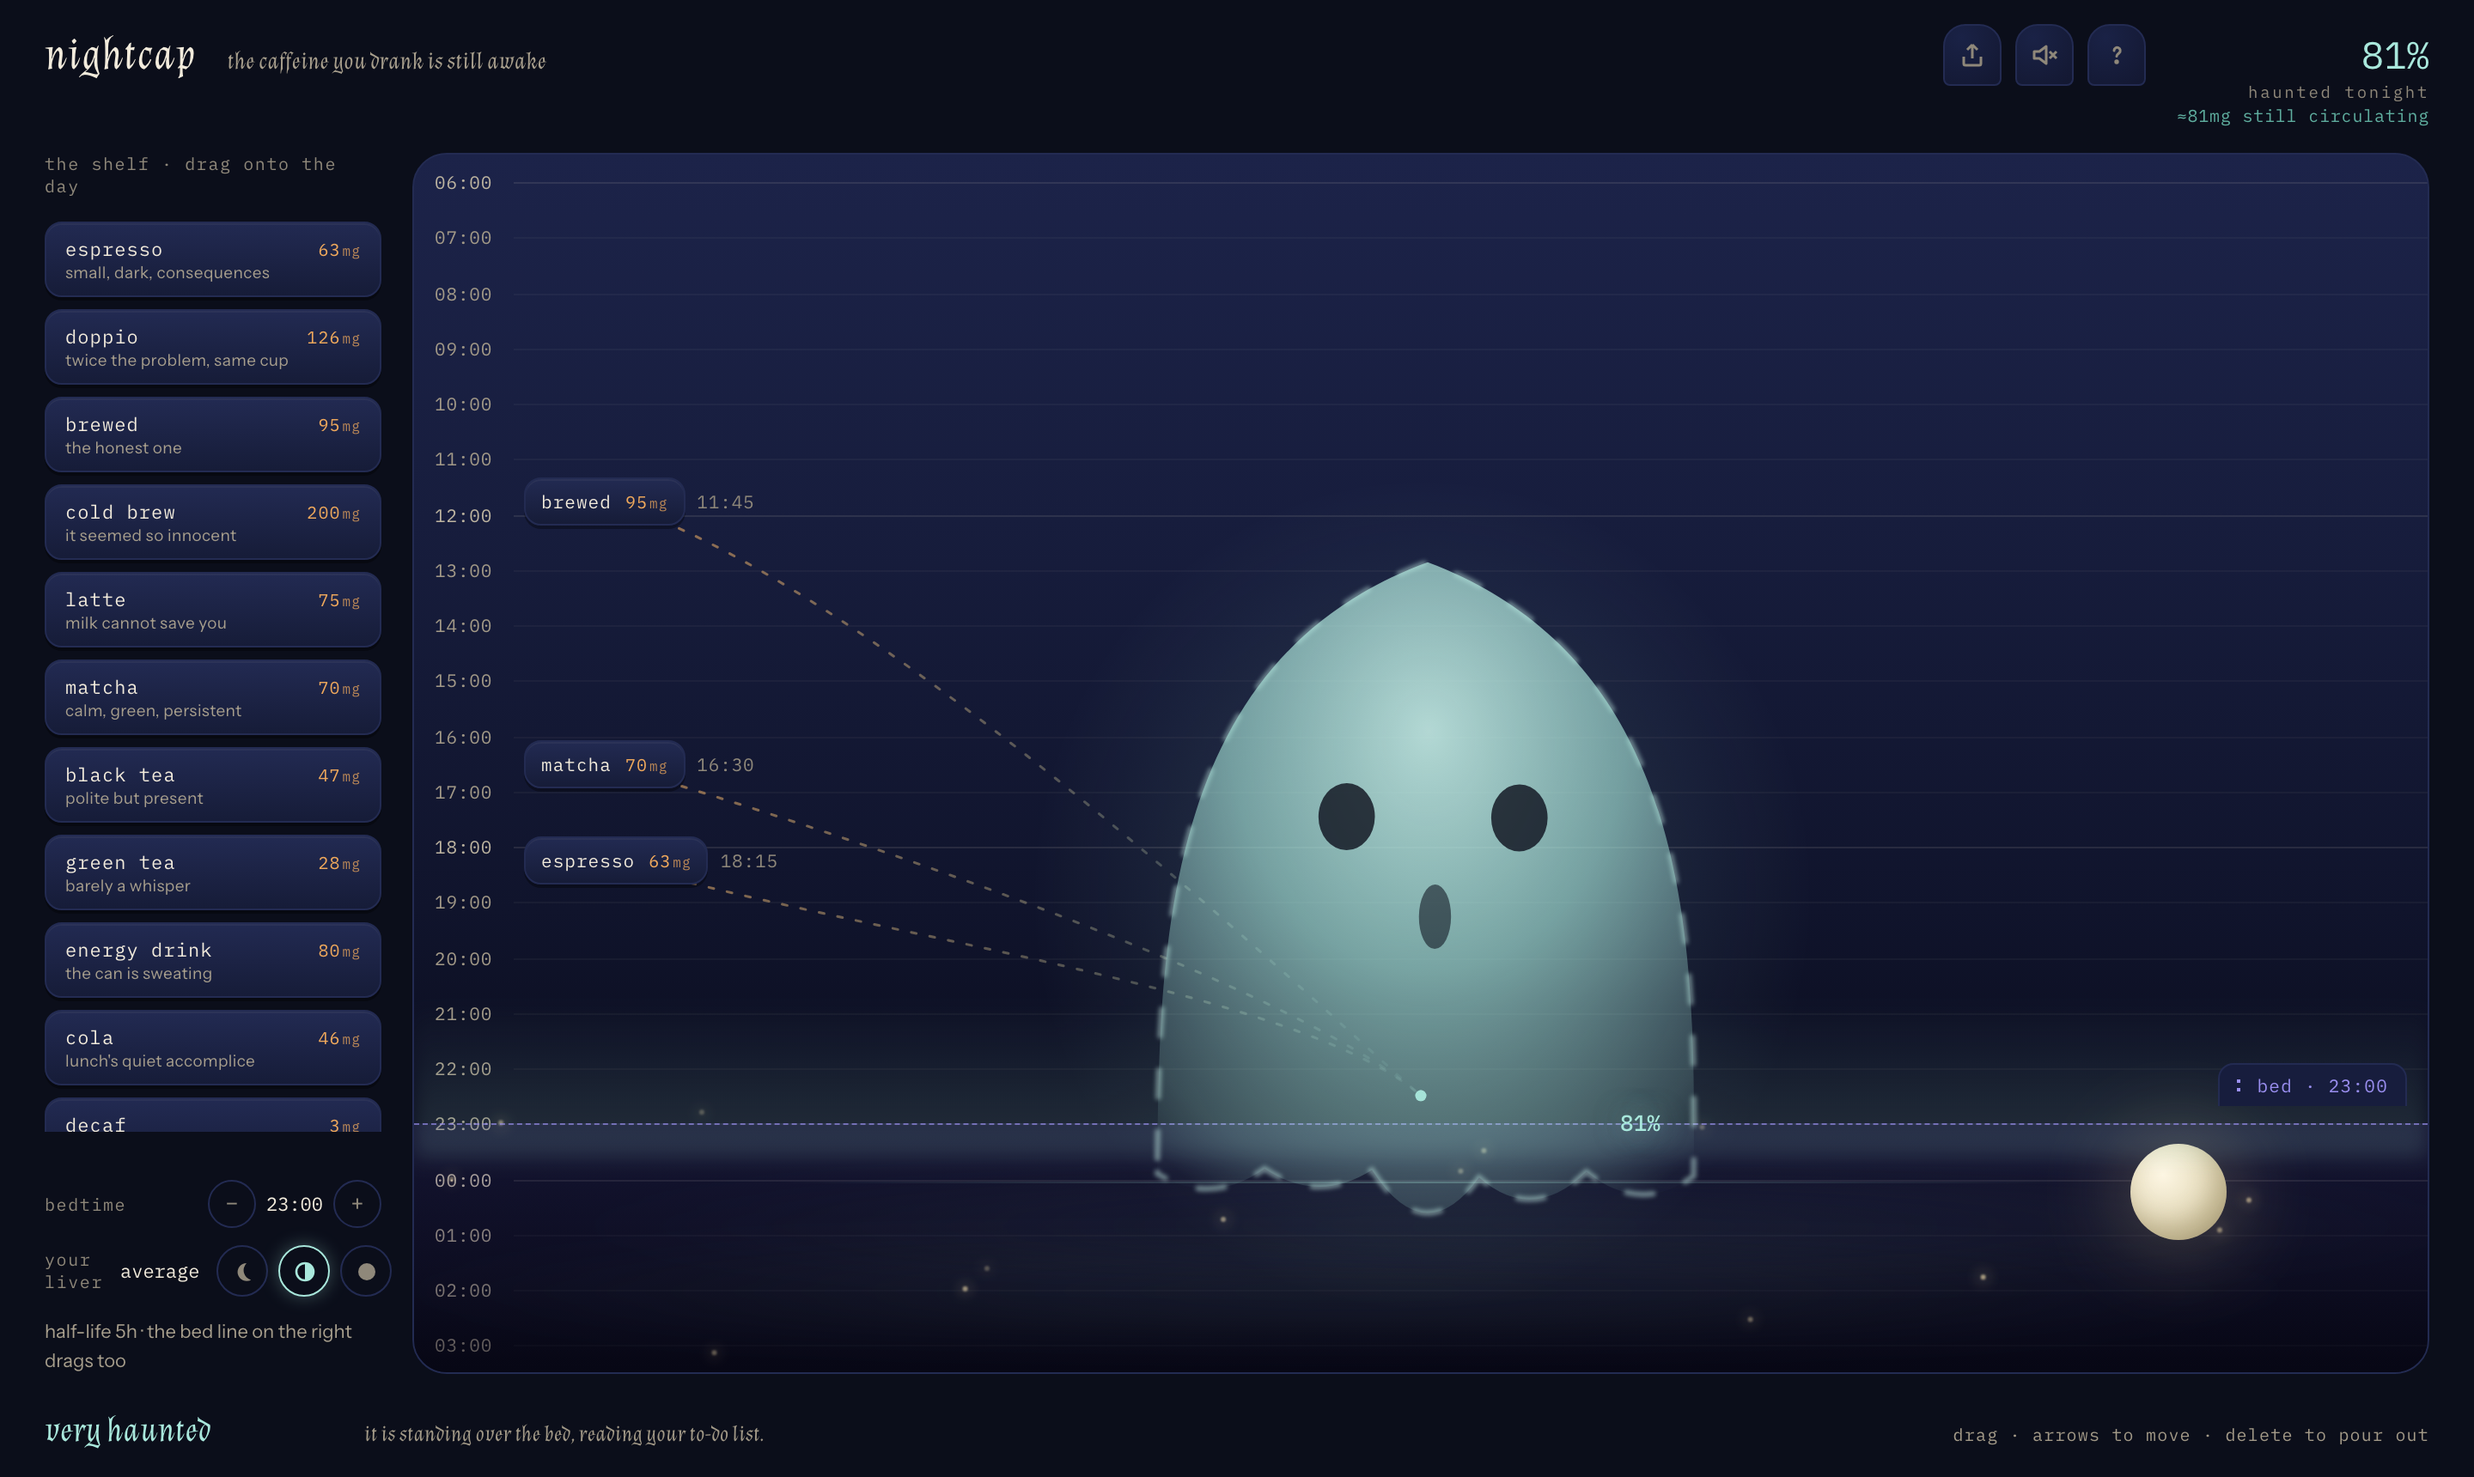
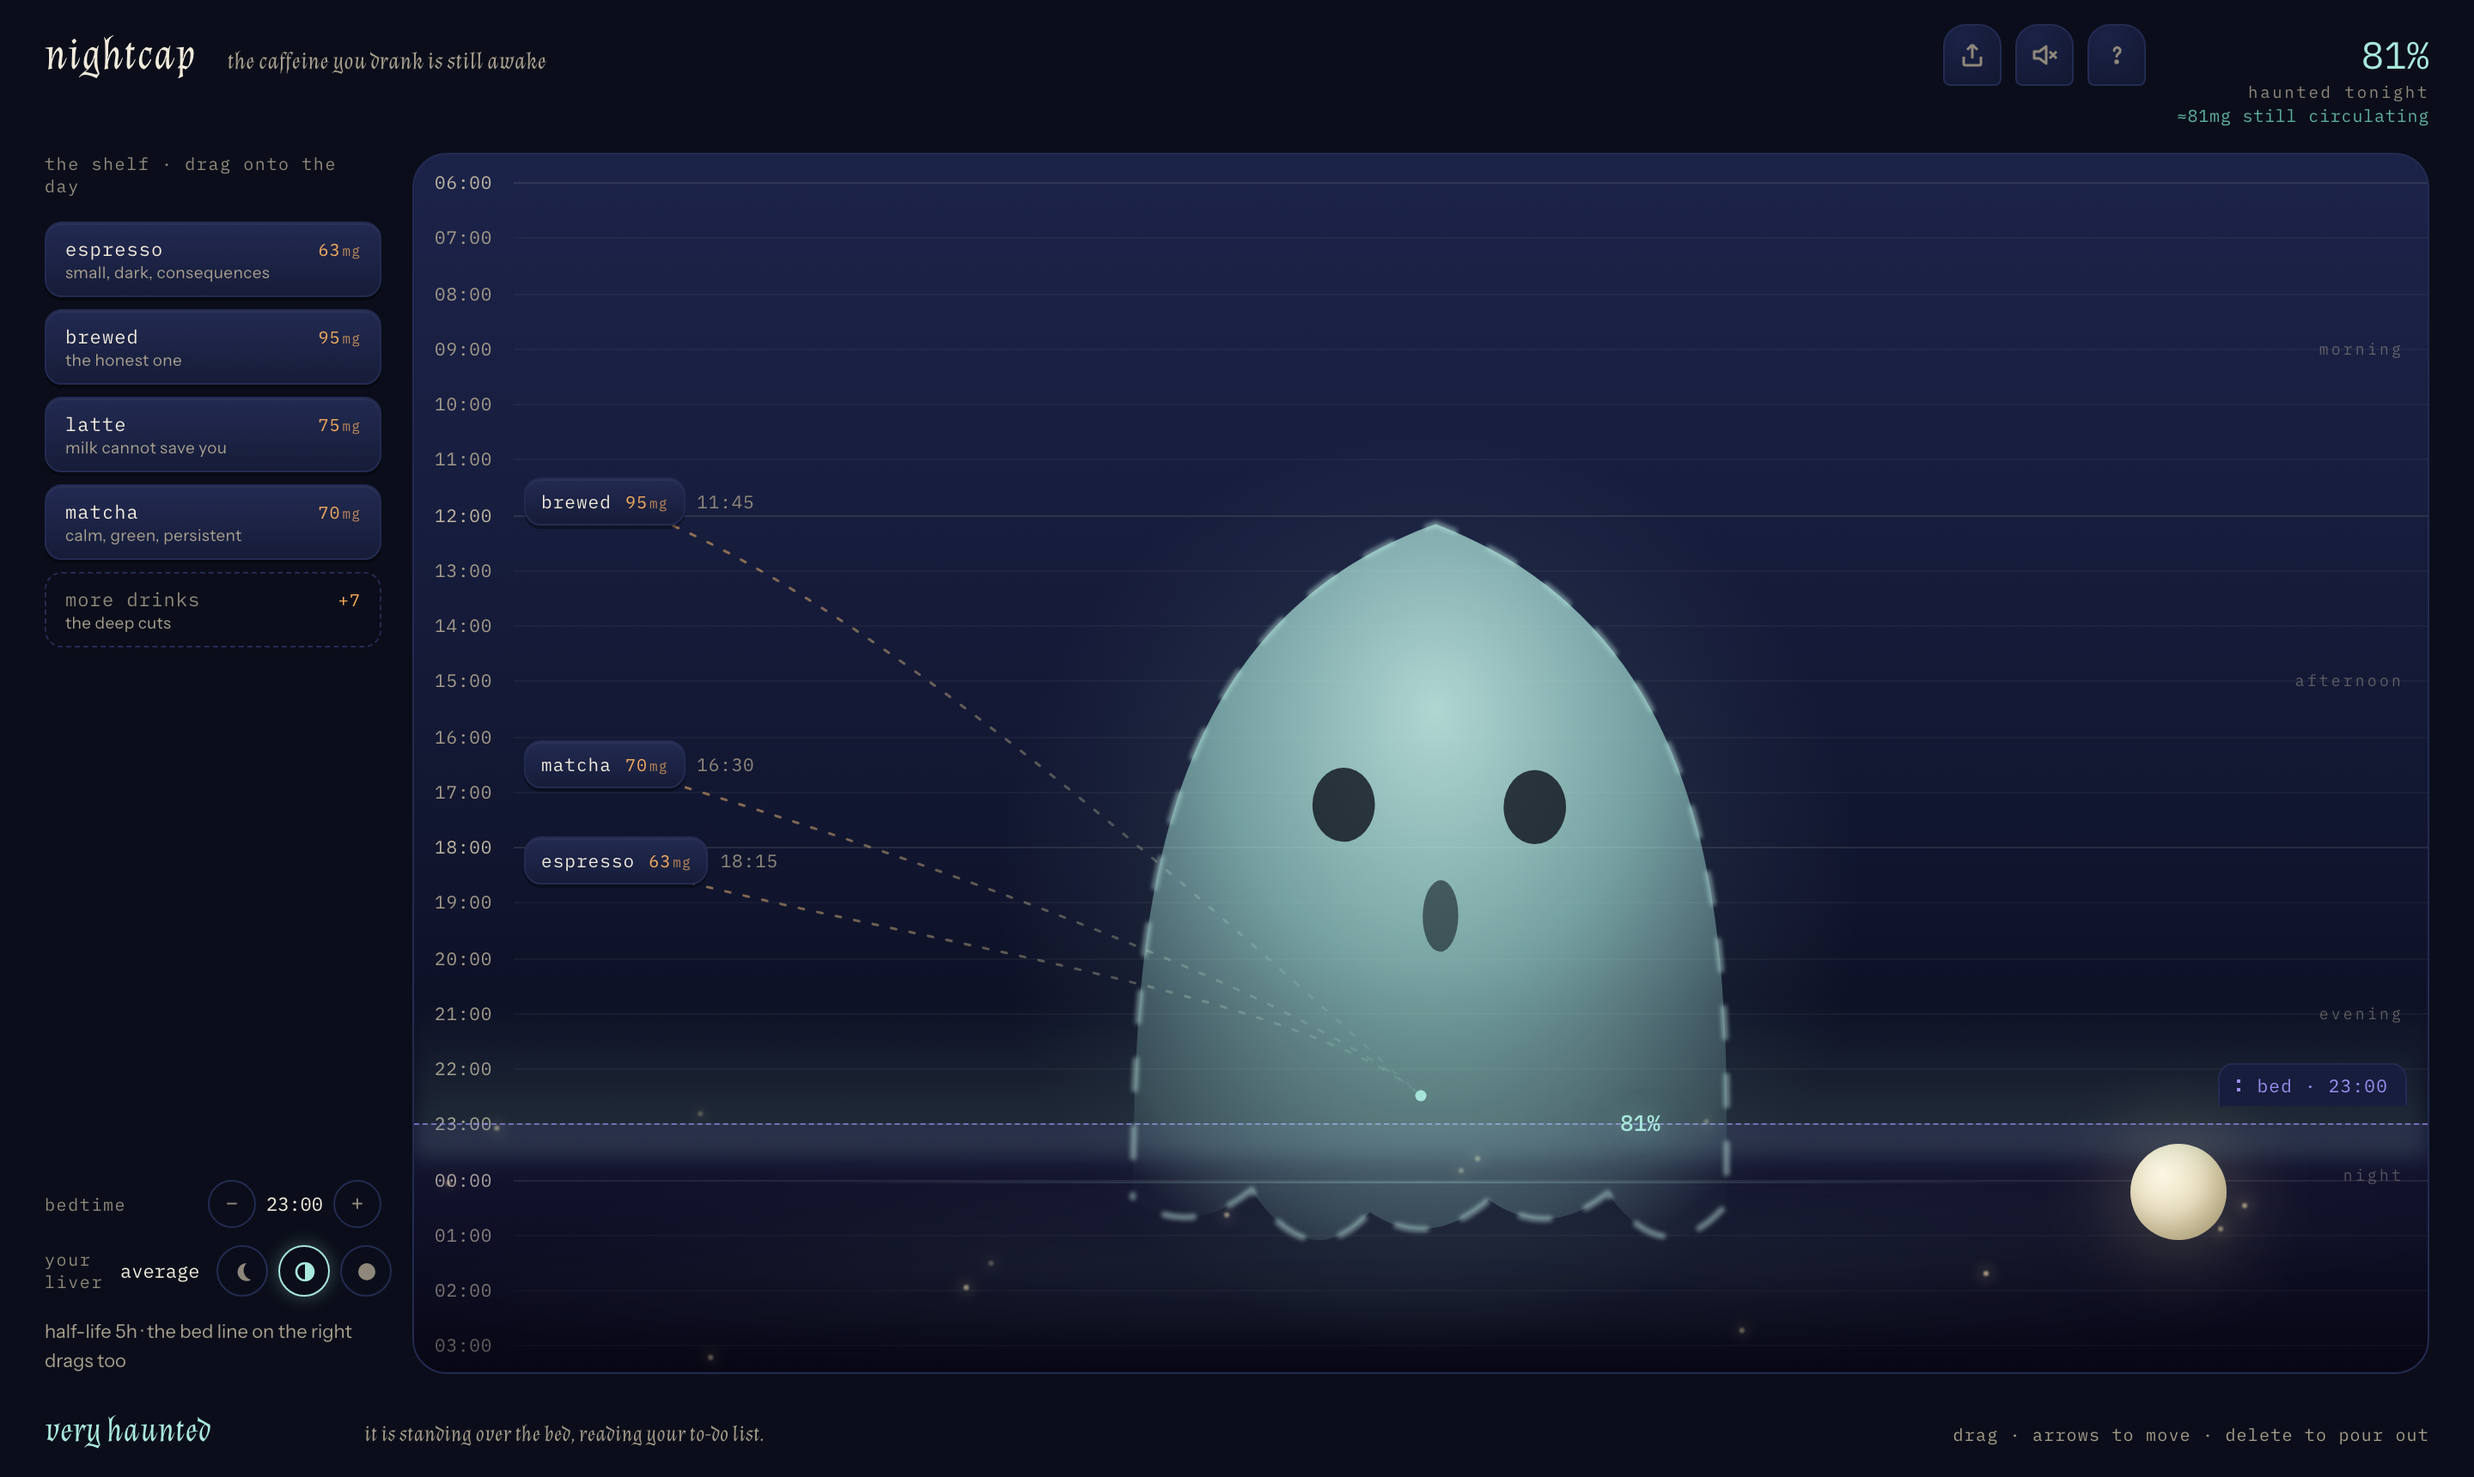
scope cut: curated shelf, compact mobile day, structured empty grid
- shelf leads with four common drinks; 'more drinks' reveals the rest
- two-line invitation explains the reward: 'see what remains at bedtime'
- faint day-part labels (morning/afternoon/evening/night) structure the grid
- narrow screens open on a noon-onward day with a 'show the morning' toggle
- mobile % badge tucks under the bed tag instead of crowding it
- share card narrows the mini timeline and widens the drink ledger

Generated with [Devin](https://devin.ai)

diff --git a/src/App.tsx b/src/App.tsx
@@ -20,9 +20,10 @@ type DragKind = { type: "shelf"; drinkId: string } | { type: "move"; uid: string
 type Drag = DragKind & { x: number; y: number; x0: number; y0: number; snap: number | null; over: boolean };
 type BedDrag = { active: boolean };
 
-const pct = (m: number) => 2.2 + ((m - START) / (END - START)) * 95.6;
 const clampBed = (m: number) => Math.max(MIN_BED, Math.min(MAX_BED, m));
 const snap15 = (m: number) => Math.round(m / 15) * 15;
+// four drinks everyone knows first; the rest live behind "more drinks"
+const COMMON_DRINKS = ["espresso", "brewed", "latte", "matcha"];
 
 export default function App() {
   const [state, setState] = useState(() => {
@@ -54,6 +55,9 @@ export default function App() {
   });
   const dropFx = useRef<{ x: number; y: number; uid: string } | null>(null);
   const [poured, setPoured] = useState<{ uid: string; drinkId: string; minutes: number; name: string } | null>(null);
+  const [showAllDrinks, setShowAllDrinks] = useState(false);
+  const [narrow, setNarrow] = useState(() => matchMedia("(max-width: 760px)").matches);
+  const [wideView, setWideView] = useState(false);
   const pouredTimer = useRef(0);
   const bedDetent = useRef(0);
   const earlierAcc = useRef(0);
@@ -62,6 +66,10 @@ export default function App() {
   const [colSize, setColSize] = useState({ w: 0, h: 0 });
 
   const { placed, bedtime, liver } = state;
+  // narrow screens default to noon onward — the hours caffeine is actually poured
+  const viewStart = narrow && !wideView ? 12 * 60 : START;
+  const pct = (m: number) => Math.max(2.2, Math.min(97.8, 2.2 + ((m - viewStart) / (END - viewStart)) * 95.6));
+  const earlyCount = placed.filter((p) => p.minutes < viewStart).length;
   const score = useMemo(() => hauntedScore(placed, bedtime, liver), [placed, bedtime, liver]);
   const residual = useMemo(() => residualAt(placed, bedtime, HALF_LIVES[liver]), [placed, bedtime, liver]);
   const overdose = totalMg(placed) > OVERDOSE_MG;
@@ -139,7 +147,7 @@ export default function App() {
   const yToMin = (y: number) => {
     const r = columnRef.current!.getBoundingClientRect();
     const p = ((y - r.top) / r.height) * 100;
-    return START + ((p - 2.2) / 95.6) * (END - START);
+    return viewStart + ((p - 2.2) / 95.6) * (END - viewStart);
   };
   const inColumn = (x: number, y: number) => {
     const r = columnRef.current!.getBoundingClientRect();
@@ -272,6 +280,14 @@ export default function App() {
     return () => mq.removeEventListener("change", f);
   }, []);
 
+  // narrow screens start on the hours people actually drink caffeine
+  useEffect(() => {
+    const mq = matchMedia("(max-width: 760px)");
+    const f = () => setNarrow(mq.matches);
+    mq.addEventListener("change", f);
+    return () => mq.removeEventListener("change", f);
+  }, []);
+
   // ghost looks at the cursor
   useEffect(() => {
     const move = (e: PointerEvent) => {
@@ -328,7 +344,7 @@ export default function App() {
   const removePlaced = pourOut;
 
   const hours: number[] = [];
-  for (let m = START; m <= END; m += 60) hours.push(m);
+  for (let m = viewStart; m <= END; m += 60) hours.push(m);
 
   // lane offsets so drinks at the same time never sit on top of each other
   const laneOf = useMemo(() => {
@@ -389,7 +405,7 @@ export default function App() {
         <aside className="rail">
           <div className="rail-label">the shelf · drag onto the day</div>
           <div className="shelf" ref={shelfRef}>
-            {DRINKS.map((d) => (
+            {(showAllDrinks ? DRINKS : DRINKS.filter((d) => COMMON_DRINKS.includes(d.id))).map((d) => (
               <button
                 key={d.id}
                 className="chip"
@@ -401,6 +417,12 @@ export default function App() {
                 <span className="mg">{d.mg}<span className="unit">mg</span></span>
               </button>
             ))}
+            {!showAllDrinks && (
+              <button className="chip more" onClick={() => setShowAllDrinks(true)}>
+                <span>more drinks<span className="note">the deep cuts</span></span>
+                <span className="mg">+{DRINKS.length - COMMON_DRINKS.length}</span>
+              </button>
+            )}
           </div>
           <div className="spacer" />
           <div className="settings-block">
@@ -445,12 +467,23 @@ export default function App() {
             commitKb({ ...kbCursor, minutes: m });
           }}
         >
+          {narrow && (
+            <button className="viewtoggle" onClick={() => setWideView((v) => !v)}>
+              {wideView ? "back to today" : earlyCount > 0 ? `show the morning · ${earlyCount} there` : "show the morning"}
+            </button>
+          )}
           {hours.map((m) => (
             <div key={m} className={`hourrow ${m % 360 === 0 ? "major" : ""}`} style={{ top: `${pct(m)}%` }}>
               <span className="hourlabel">{fmtTime(m)}</span>
               <span className="hourline" />
             </div>
           ))}
+          {([["morning", 9 * 60], ["afternoon", 15 * 60], ["evening", 21 * 60]] as const)
+            .filter(([, m]) => m > viewStart)
+            .map(([label, m]) => (
+              <div key={label} className="daypart" style={{ top: `${pct(m)}%` }}>{label}</div>
+            ))}
+          <div className="daypart" style={{ top: `calc(${bedPct}% + 30px)` }}>night</div>
 
           <div className="nightzone" style={{ top: `${bedPct}%` }}>
             {fireflies.map((s, i) => (
@@ -570,7 +603,10 @@ export default function App() {
           </div>
 
           {placed.length === 0 && !drag && !kbCursor && (
-            <div className="drop-hint" style={{ top: "38%" }}>drop a drink at the time you had it</div>
+            <div className="drop-hint" style={{ top: "38%" }}>
+              drop a drink at the time you had it
+              <span className="sub">see what remains at bedtime</span>
+            </div>
           )}
           {score > 0 && (
             <div className="ghostscore" style={{ top: `${bedPct}%` }}>{score}%</div>

diff --git a/src/index.css b/src/index.css
@@ -118,6 +118,11 @@ button { font: inherit; color: inherit; background: none; border: 0; cursor: poi
 .chip .mg { color: var(--amber); font-size: 10px; }
 .chip .mg .unit { font-size: 8px; opacity: 0.75; margin-left: 1px; }
 .chip .note { display: block; font-size: 9.5px; color: #a89f8d; letter-spacing: 0.02em; margin-top: 1px; font-family: var(--font-ui); }
+.chip.more {
+  border-style: dashed; border-color: var(--line); background: none;
+  color: var(--bone-dim); box-shadow: none;
+}
+.chip.more:hover { border-color: var(--spectral-dim); color: var(--spectral); }
 
 /* ---------- moon dial (liver) ---------- */
 .setting { display: flex; align-items: center; justify-content: space-between; gap: 10px; }
@@ -334,12 +339,28 @@ button { font: inherit; color: inherit; background: none; border: 0; cursor: poi
 /* the empty column keeps a quiet invitation where a drink would land */
 .drop-hint {
   position: absolute; left: 50%; transform: translate(-50%, -50%);
-  padding: 8px 16px; border-radius: 999px;
+  padding: 10px 20px; border-radius: 18px; text-align: center;
   border: 1px dashed rgba(240, 169, 92, 0.55);
   font-family: var(--font-mono); font-size: 11px; letter-spacing: 0.04em;
   color: var(--amber); pointer-events: none; white-space: nowrap;
   background: rgba(20, 16, 32, 0.6);
 }
+.drop-hint .sub { display: block; font-size: 9.5px; color: var(--amber-dim); margin-top: 3px; }
+/* restrained structure for the empty grid */
+.daypart {
+  position: absolute; right: 14px; transform: translateY(-50%);
+  font-family: var(--font-mono); font-size: 9px; letter-spacing: 0.18em;
+  color: rgba(168, 159, 141, 0.5); pointer-events: none;
+}
+/* mobile's compact view toggle */
+.viewtoggle {
+  position: absolute; left: 50%; top: 8px; transform: translateX(-50%);
+  z-index: 8; padding: 6px 14px; border-radius: 999px;
+  font-family: var(--font-mono); font-size: 10.5px; color: var(--bone-dim);
+  background: rgba(16, 20, 44, 0.85); border: 1px solid var(--line);
+  transition: color 140ms, border-color 140ms;
+}
+.viewtoggle:active { color: var(--spectral); border-color: var(--spectral-dim); }
 /* the score sits beside its ghost so the result reads locally */
 .ghostscore {
   position: absolute; left: calc(50% + 116px); transform: translateY(-50%);
@@ -502,7 +523,7 @@ button { font: inherit; color: inherit; background: none; border: 0; cursor: poi
   .settings-block .setting { margin-top: 0 !important; width: 100%; }
   /* only the 6-hour labels survive the small column */
   .hourrow:not(.major) .hourlabel { display: none; }
-  .ghostscore { font-size: 11px; left: auto; right: 10px; }
+  .ghostscore { font-size: 11px; left: auto; right: 12px; transform: translateY(10px); }
   .rail-hint, .rail .spacer { display: none; }
   .descent { min-height: 0; }
   .ghostspot { width: min(280px, 46%); }

diff --git a/src/components/ShareTray.tsx b/src/components/ShareTray.tsx
@@ -38,8 +38,8 @@ function drawCard(
   c.fillStyle = mg;
   c.beginPath(); c.arc(W - 170, 150, 80, 0, 7); c.fill();
 
-  // --- the mini timeline, left third ---
-  const col = { x: 120, y: 170, w: 250, h: 990 };
+  // --- the mini timeline: motif, not the card's main reading ---
+  const col = { x: 100, y: 190, w: 200, h: 950 };
   const colG = c.createLinearGradient(0, col.y, 0, col.y + col.h);
   colG.addColorStop(0, "#1c2349"); colG.addColorStop(0.6, "#10142c"); colG.addColorStop(1, "#05060f");
   c.fillStyle = colG;
@@ -134,7 +134,7 @@ function drawCard(
   c.restore();
 
   // --- the right side: the reading ---
-  const RX = 470;
+  const RX = 400;
   c.textAlign = "left";
   c.fillStyle = "#f2ebdc";
   c.font = "italic 400 84px 'Almendra'";
